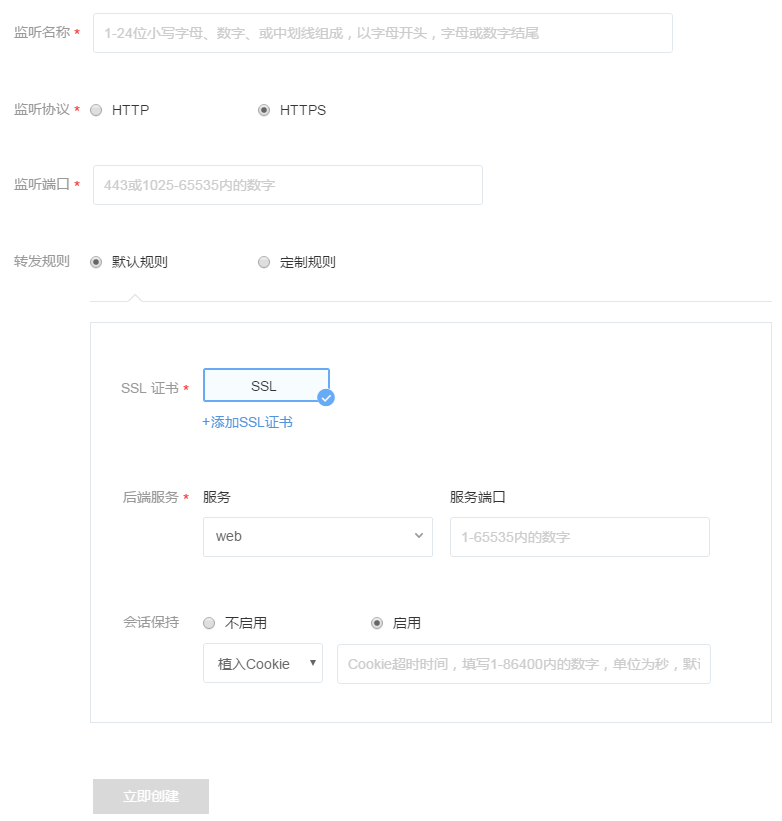
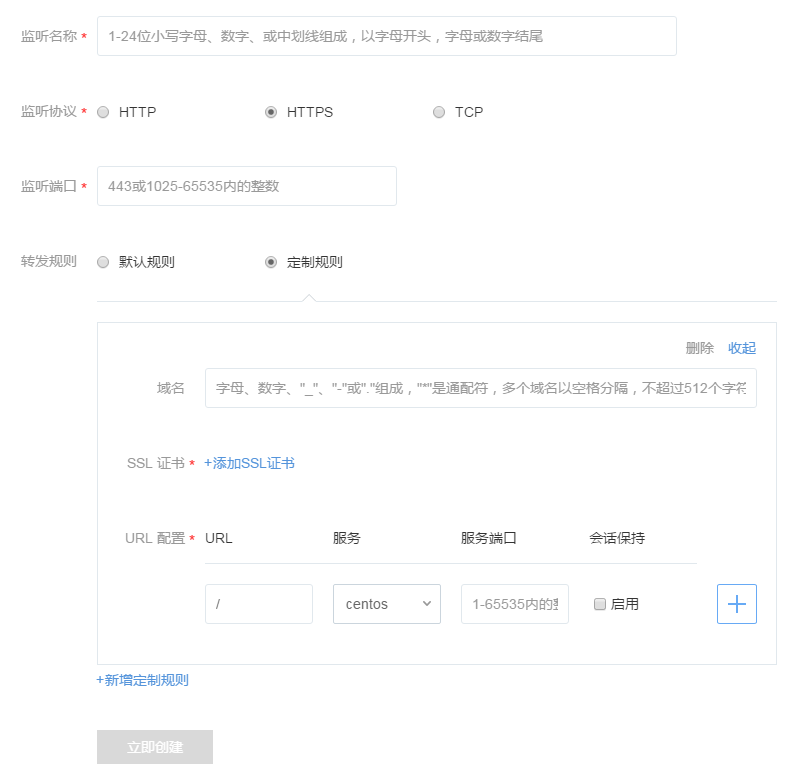
Enhanment:四层负载均衡

diff --git a/容器服务/负载均衡/使用指南/创建负载均衡.md b/容器服务/负载均衡/使用指南/创建负载均衡.md
@@ -16,11 +16,12 @@
 注：默认单个实例监听上限为 20 组，如果需要更多监听，请 提交工单申请 。
 
 ### 监听协议
-目前支持 HTTP 和 HTTPS 协议，使用 HTTPS 协议，需在下方 添加 SSL 证书。
+目前支持 HTTP 、HTTPS 和 TCP 协议，使用 HTTPS 协议，需在下方 添加 SSL 证书。
 
 ### 监听端口
-* HTTP 使用 80 或 1025 - 65535 内数字
-* HTTPS 使用 443 或 1025 - 65535 内数字
+* HTTP 使用 80 或 1 - 65535 内数字
+* HTTPS 使用 443 或 1 - 65535 内数字
+* TCP 使用 1 - 65535 内数字
 
 ### 转发规则
 **后端服务**为创建负载均衡时选择的空间内的后端服务。
